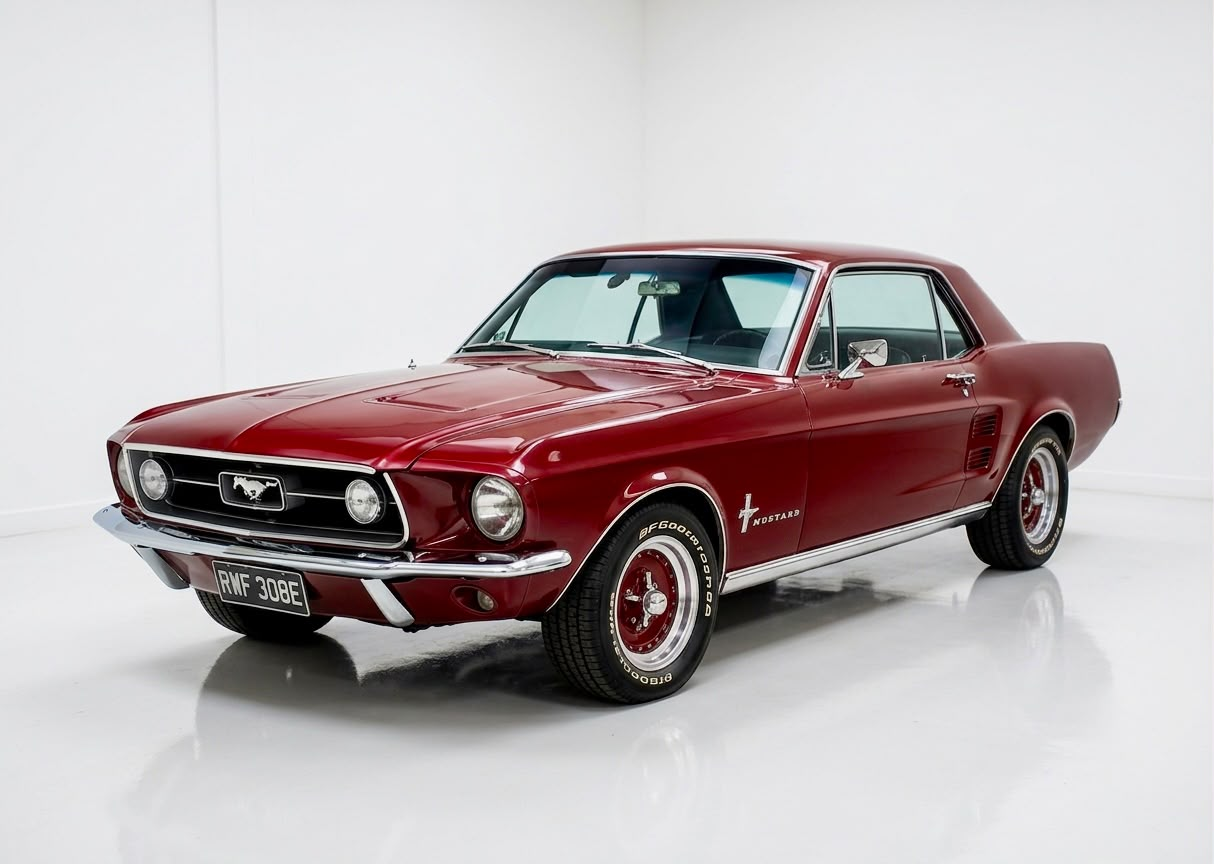
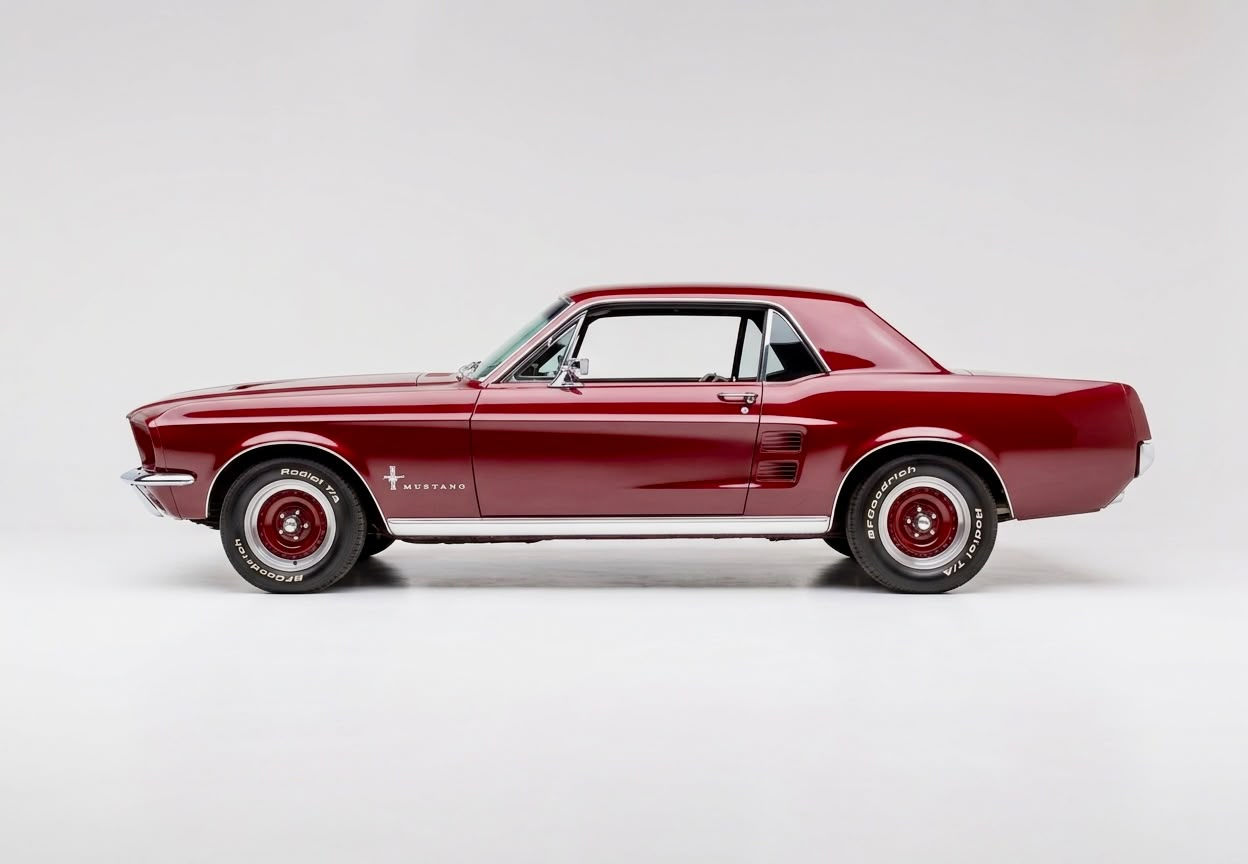
Replaced Ford Mustang 3rd card spec sheet image with /pic2.jpeg vehicle photo from public

diff --git a/data/cars.ts b/data/cars.ts
@@ -298,7 +298,7 @@ export const cars: Car[] = [
     topSpeed: "125 mph",
     steering: "LHD",
     images: [
-      "/WhatsApp Image 2026-07-23 at 01.23.07 (4).jpeg",
+      "/pic2.jpeg",
       "/fordmustangspecs.jpeg",
       "/WhatsApp Image 2026-07-23 at 01.23.07 (5).jpeg",
     ],